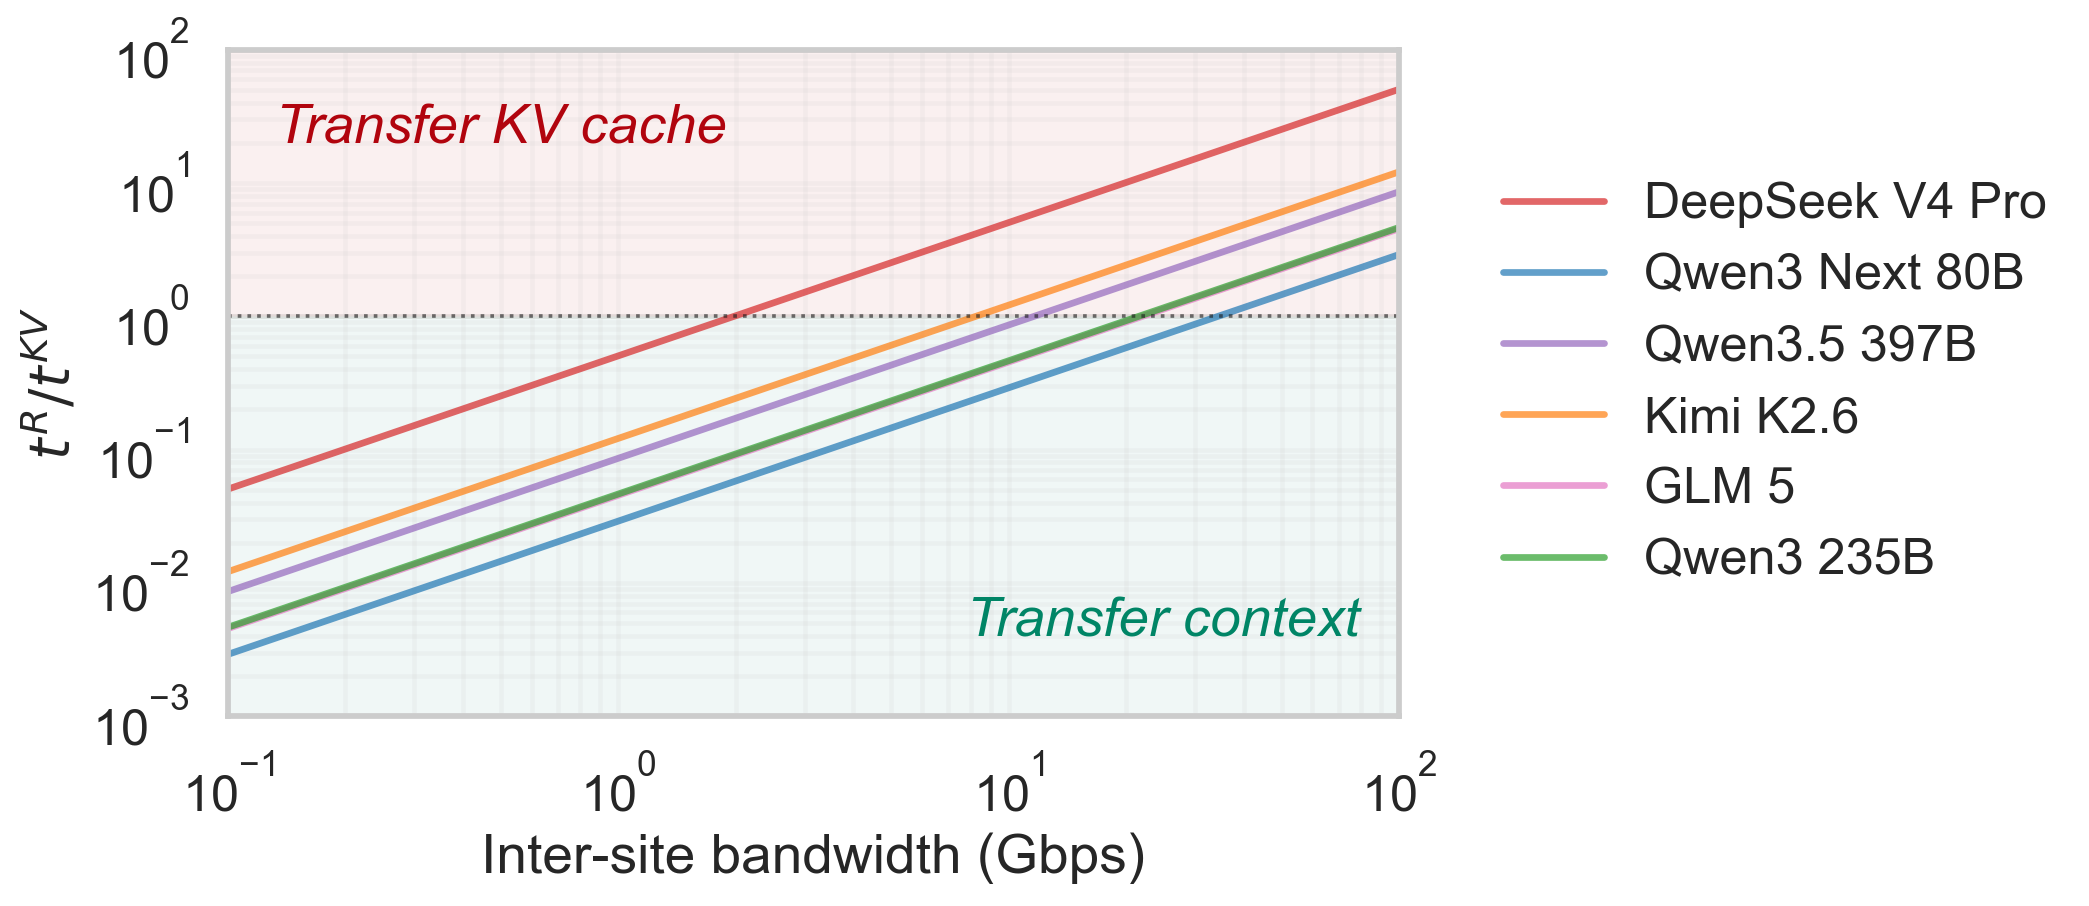
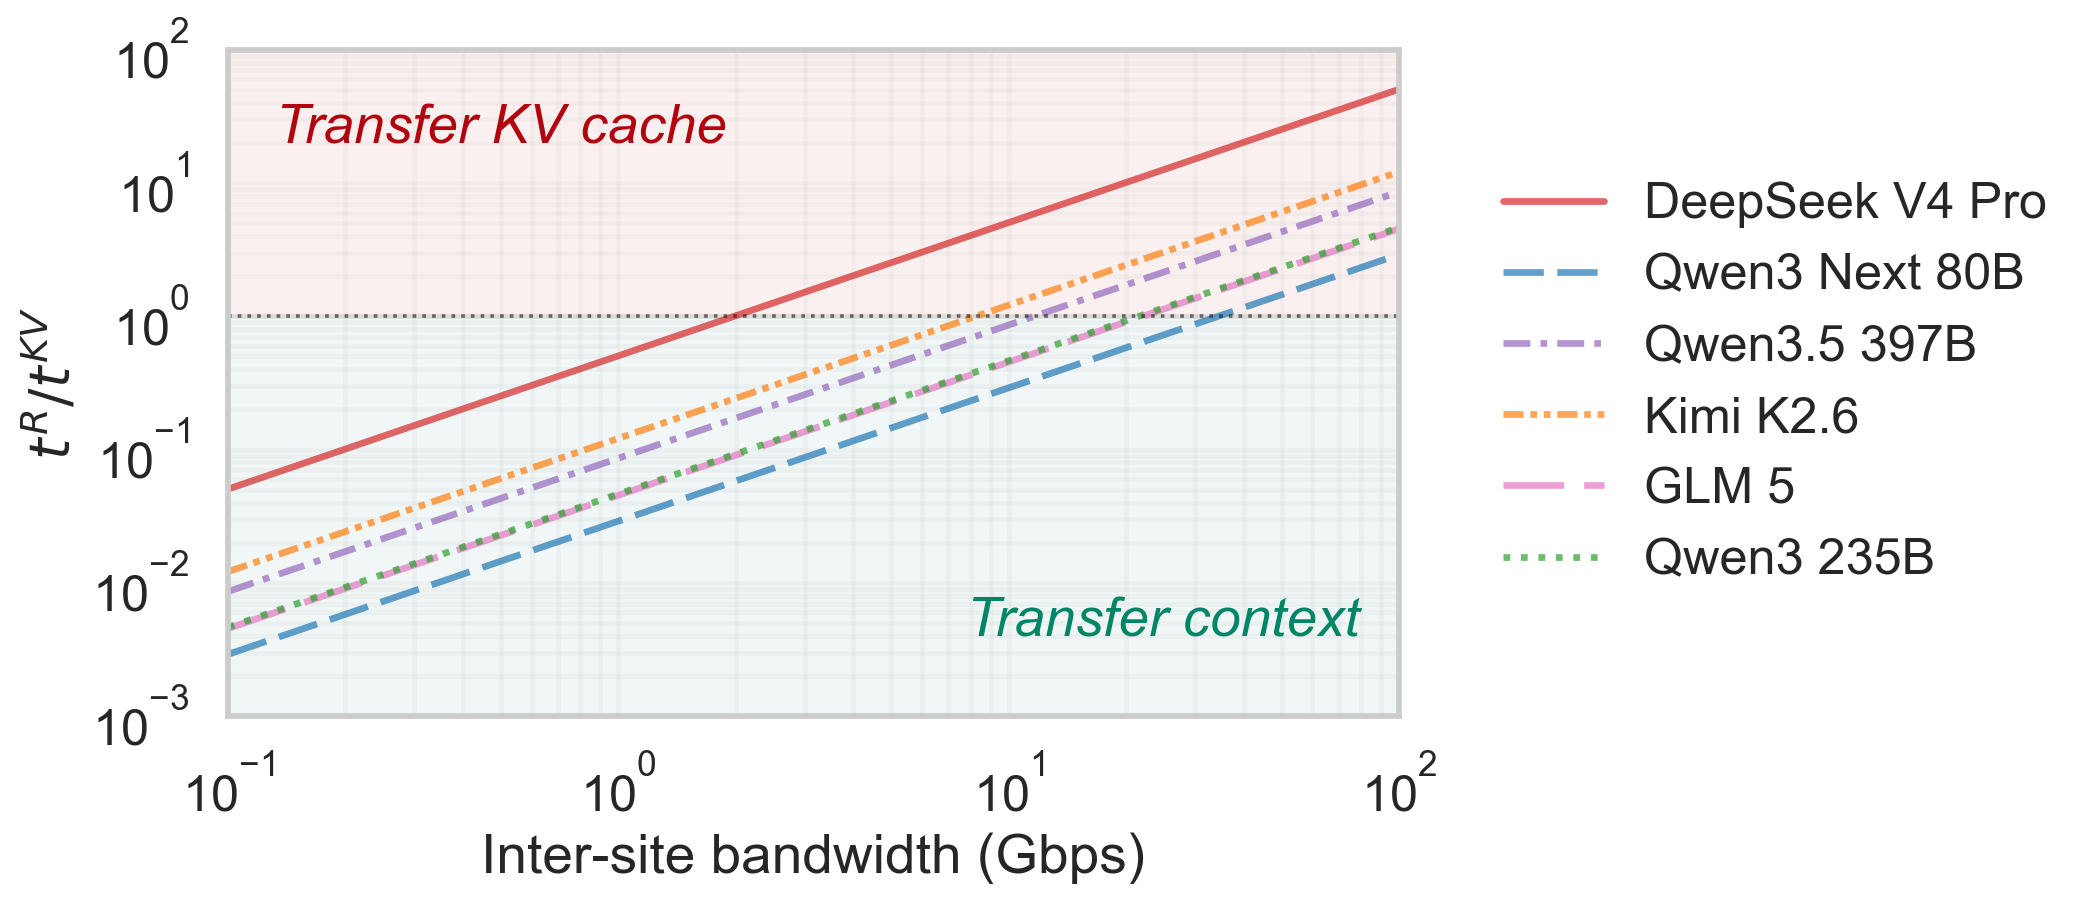
Give each model a distinct line texture
Colour alone could not separate GLM-5 from Qwen3-235B, whose crossovers sit 2%
apart (22.04 vs 21.55 Gbps) and whose curves therefore coincide. Each model now
carries its own dash pattern via the Model.ls field, which existed but was only
ever set to solid. GLM-5 and Qwen3-235B get the most-separated pair, long dashes
against fine dots, so the one underneath shows through the other's gaps.

diff --git a/agent-migrate/kv-transfer-early-experiment/migration_ratio.py b/agent-migrate/kv-transfer-early-experiment/migration_ratio.py
@@ -82,7 +82,7 @@ class Model:
     v_dim: int
     kv_bytes: KVFn  # total bf16 KV bytes as f(tokens)
     color: str = "k"
-    ls: str = "-"
+    ls: str | tuple = "-"  # distinct texture per model
 
 
 # ── KV size functions ─────────────────────────────────────────────────────────
@@ -132,6 +132,7 @@ MODELS = [
         v_dim=512,
         kv_bytes=dsv4_kv,
         color="#d62728",
+        ls="-",
     ),
     Model(
         "Qwen3 Next 80B",
@@ -142,6 +143,7 @@ MODELS = [
         v_dim=256,
         kv_bytes=gqa_kv(12, 2, 256),
         color="#1f77b4",
+        ls=(0, (6, 2)),
     ),
     Model(
         "Qwen3.5 397B",
@@ -152,6 +154,7 @@ MODELS = [
         v_dim=256,
         kv_bytes=gqa_kv(15, 2, 256),
         color="#9467bd",
+        ls=(0, (4, 1.5, 1, 1.5)),
     ),
     Model(
         "Kimi K2.6",
@@ -162,6 +165,7 @@ MODELS = [
         v_dim=128,
         kv_bytes=mla_kv(61, 512, 64),
         color="#ff7f0e",
+        ls=(0, (3, 1, 1, 1, 1, 1)),
     ),
     Model(
         "GLM 5",
@@ -172,6 +176,7 @@ MODELS = [
         v_dim=256,
         kv_bytes=mla_kv(78, 512, 64),
         color="#e377c2",
+        ls=(0, (9, 3)),
     ),
     Model(
         "Qwen3 235B",
@@ -182,6 +187,7 @@ MODELS = [
         v_dim=128,
         kv_bytes=gqa_kv(94, 4, 128),
         color="#2ca02c",
+        ls=(0, (1, 1.6)),
     ),
 ]
 
